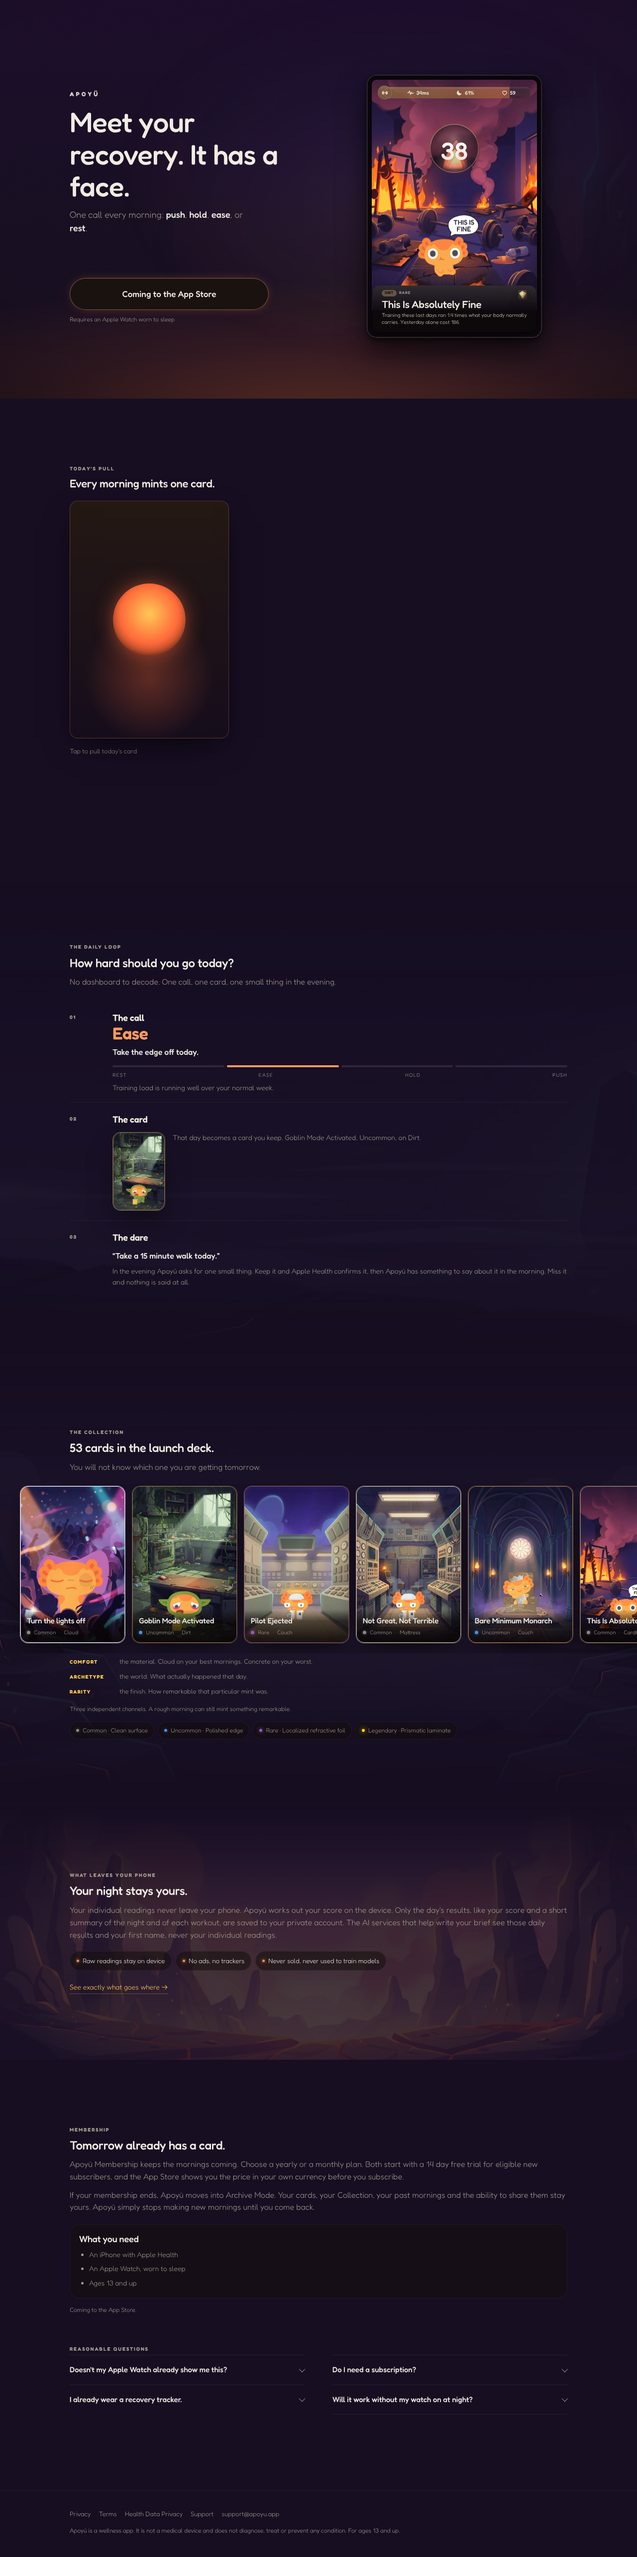
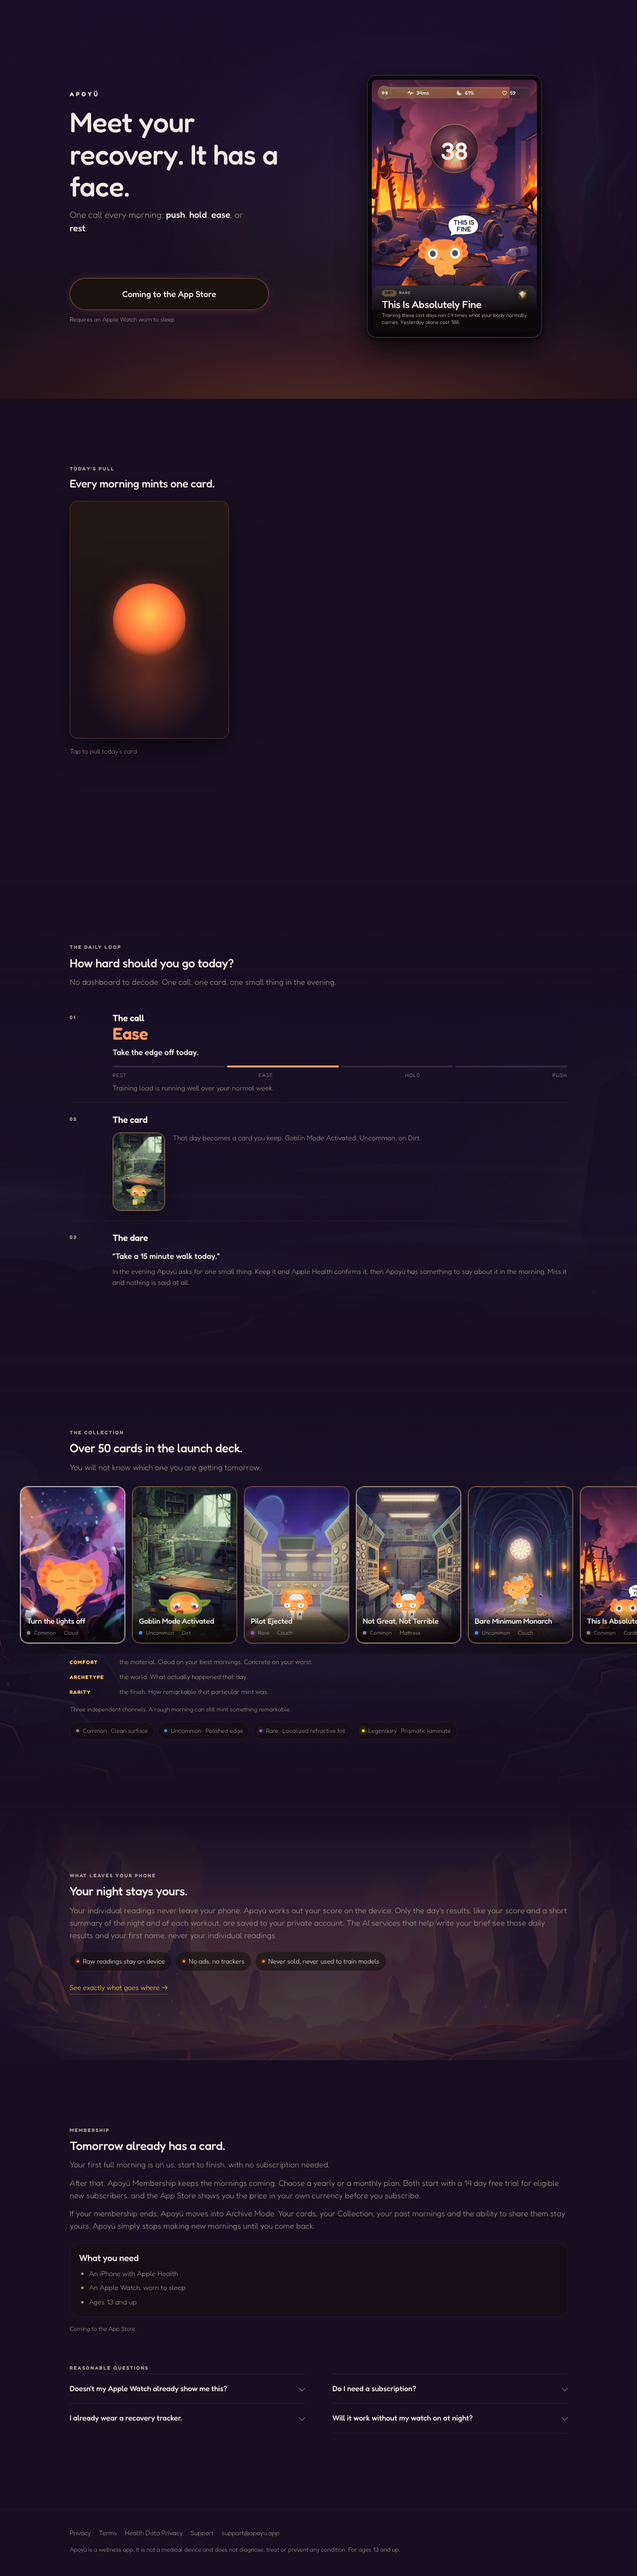
fix(home): keep the first morning preview, soften the deck count
Restore the listing's line 99 wording for the one preview morning in the
Membership block and the subscription FAQ, and say "Over 50 cards" so the
count cannot drift from the manifest. Screenshots re-taken.

Claude-Session: https://claude.ai/code/session_014sJren9UzGcVBZKwWPyGRp

diff --git a/index.html b/index.html
@@ -574,7 +574,7 @@ body.calm .floaty{animation:none}
   <div class="atmos night-b" aria-hidden="true"></div>
   <div class="wrap">
     <p class="eyebrow rise">The collection</p>
-    <h2 id="collh" class="rise" style="margin-top:10px">53 cards in the launch deck.</h2>
+    <h2 id="collh" class="rise" style="margin-top:10px">Over 50 cards in the launch deck.</h2>
     <p class="lede rise" style="margin-top:12px">You will not know which one you are getting tomorrow.</p>
   </div>
 
@@ -698,7 +698,9 @@ body.calm .floaty{animation:none}
   <div class="wrap">
     <p class="eyebrow rise">Membership</p>
     <h2 id="memh" class="rise" style="margin-top:10px">Tomorrow already has a card.</h2>
-    <p class="lede rise" style="margin-top:12px">Apoyü Membership keeps the mornings coming. Choose a yearly
+    <p class="lede rise" style="margin-top:12px">Your first full morning is on us, start to finish, with no
+      subscription needed.</p>
+    <p class="lede rise" style="margin-top:12px">After that, Apoyü Membership keeps the mornings coming. Choose a yearly
       or a monthly plan. Both start with a 14 day free trial for eligible new subscribers, and the App Store
       shows you the price in your own currency before you subscribe.</p>
     <p class="lede rise" style="margin-top:12px">If your membership ends, Apoyü moves into Archive Mode.
@@ -736,8 +738,9 @@ body.calm .floaty{animation:none}
       </details>
       <details class="rise">
         <summary>Do I need a subscription?</summary>
-        <p class="ans">Yes. Apoyü runs on Apoyü Membership, yearly or monthly, and there is no free plan.
-          Both plans start with a 14 day free trial for eligible new subscribers. If you stop, everything
+        <p class="ans">After your first morning, yes. Your first full morning is on us, start to finish, with
+          no subscription needed. After that, Apoyü runs on Apoyü Membership, yearly or monthly, and there
+          is no free plan. Both plans start with a 14 day free trial for eligible new subscribers. If you stop, everything
           you have earned stays yours in Archive Mode.</p>
       </details>
       <details class="rise">

diff --git a/docs/ledgers/WEB-RESTORE-2026-11-23.md b/docs/ledgers/WEB-RESTORE-2026-11-23.md
@@ -24,3 +24,10 @@ Lane WEB-RESTORE for merge desk 29. Ruling: apoyu.app shows the Sep 2 designed l
 
 - Could not read `itsapoyu/apoyu` `docs/launch/app-store-listing.md`: attaching that repository was refused in this session. Membership and device wording comes from main's home page (36944b3), which was written from that listing on Nov 17. One deliberate difference: main said "your first full morning is on us, with no subscription needed"; I left that out because the ruling says no free plan. Put it back if the listing still says it.
 - "53 cards in the launch deck" and "Never sold, never used to train models" are kept from the Sep 2 page as written; worth one check against the current app and privacy policy.
+
+## Desk 29 review, round 2
+
+- Desk confirmed from itsapoyu/apoyu `docs/launch/app-store-listing.md` line 99 that the one preview morning stays (it is the Membership law's preview, not a free plan). Restored "Your first full morning is on us, start to finish, with no subscription needed." in the Membership section and in the "Do I need a subscription?" answer.
+- "53 cards" changed to "Over 50 cards in the launch deck." (the manifest count drifts).
+- "Never sold, never used to train models" and "Ages 13 and up" confirmed by the desk; kept.
+- Re-took all screenshots; checks re-run.
